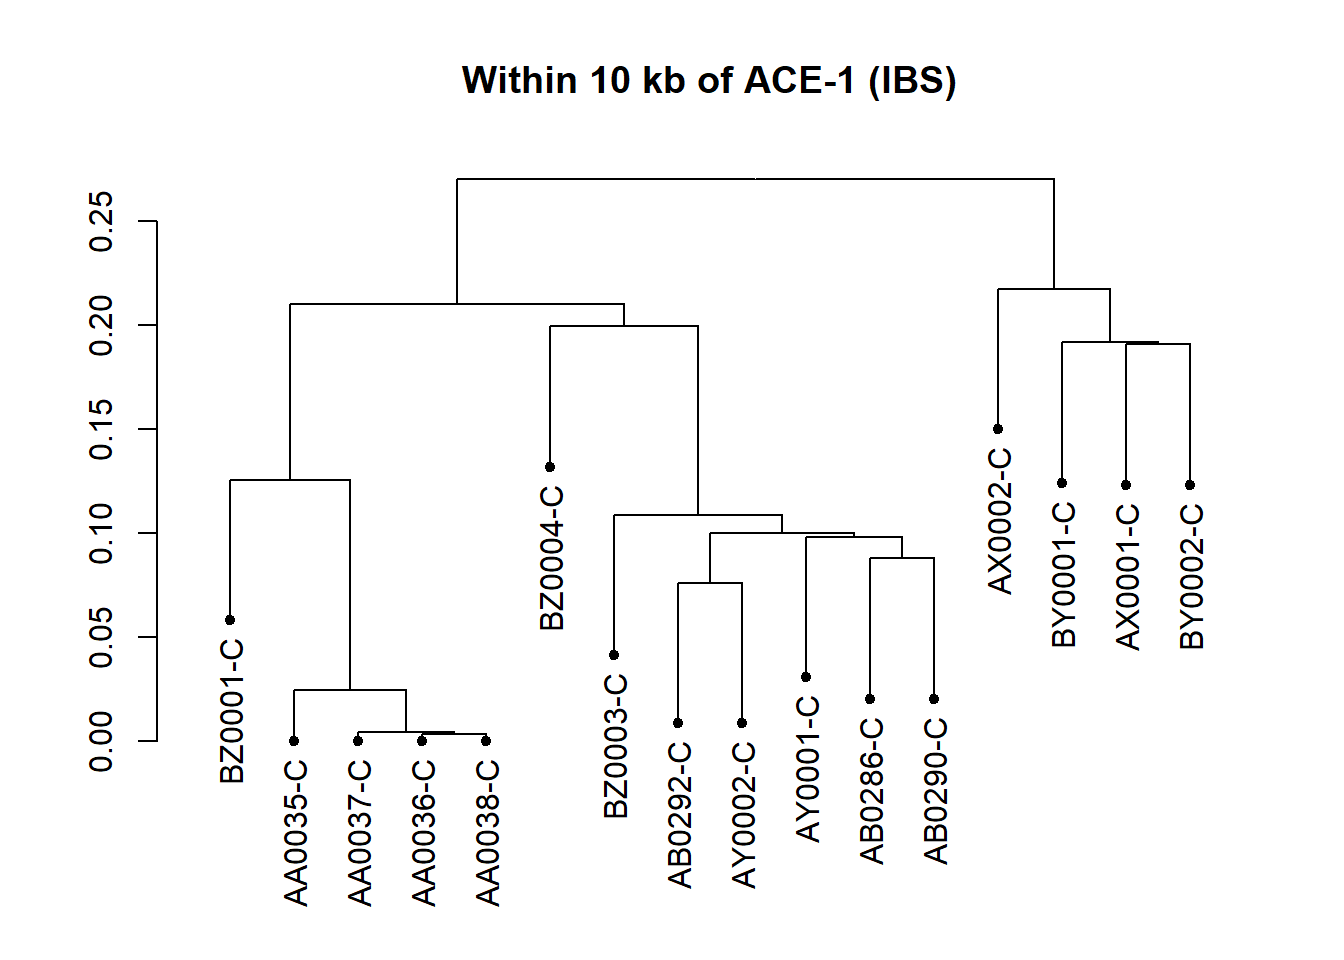
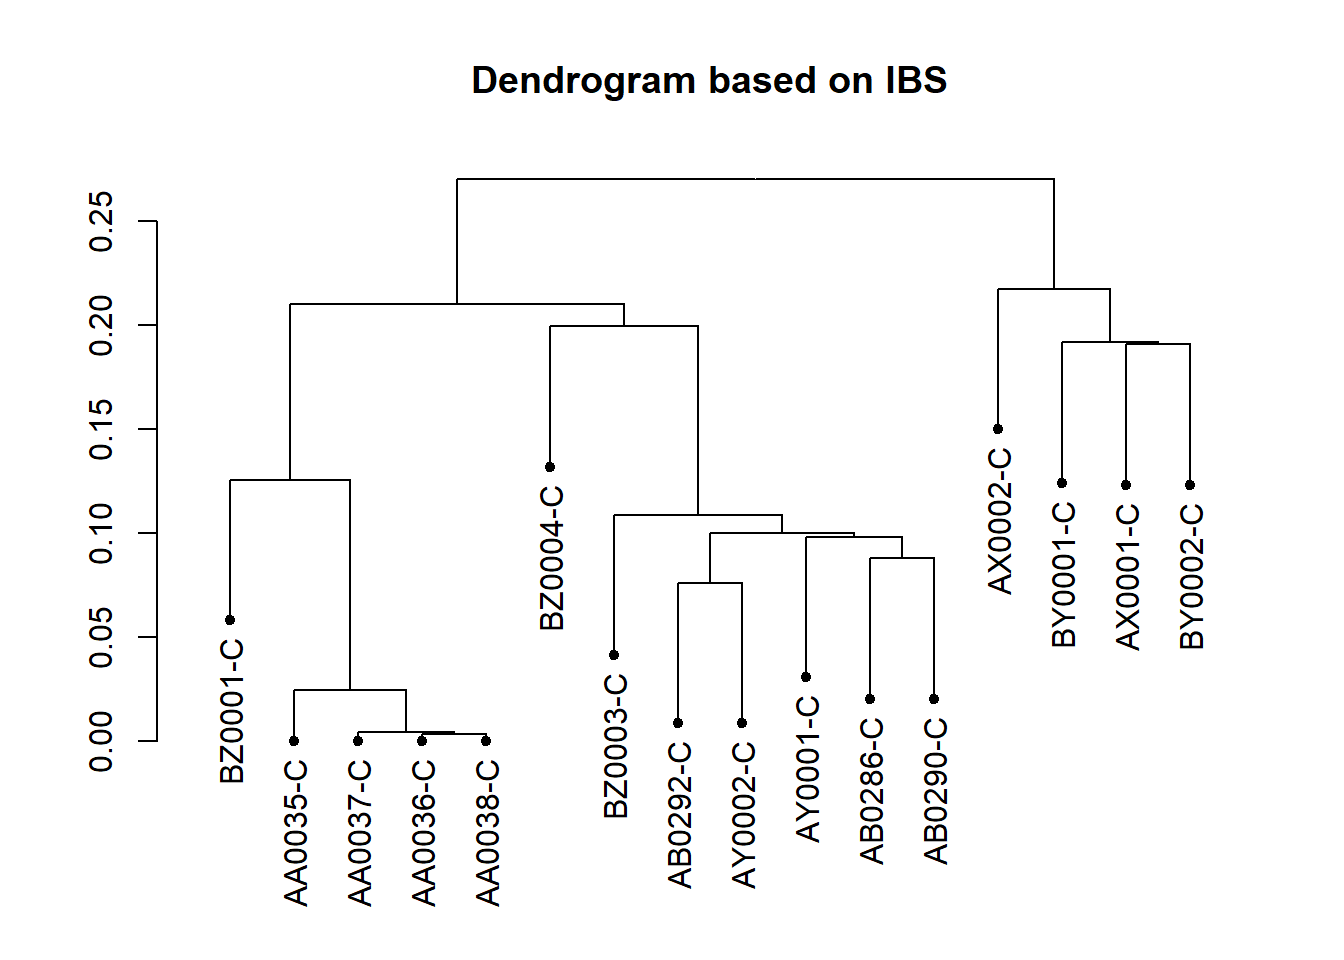
AddedThanks

Changed region(s): [[0.3438, 0.0625, 0.7188, 0.125]]

diff --git a/Phylogeny.html b/Phylogeny.html
@@ -396,6 +396,7 @@ div.tocify {
 <p>This document provides an example of creating a dendrogram from a VCF file. The VCF file can be altered using VCFtools to look at a specific area of the genome. The lines starting with ## are what you would expect to see for the output</p>
 <p>For a more in depth tutorial of SNPRelate see <a href="http://corearray.sourceforge.net/tutorials/SNPRelate/" class="uri">http://corearray.sourceforge.net/tutorials/SNPRelate/</a></p>
 <p>This document was created using Rmarkdown <a href="http://rmarkdown.rstudio.com" class="uri">http://rmarkdown.rstudio.com</a>.</p>
+<p>**Thanks to Thomas Quiroz Monnens for catching an error in a previous version of this tutorial!</p>
 <p>```</p>
 </div>
 <div id="installing-packages" class="section level1">
@@ -451,11 +452,11 @@ ibs.hc&lt;-snpgdsHCluster(snpgdsIBS(genofile,num.thread=2, autosome.only=FALSE))
 ##     # of SNPs: 2,102
 ##     using 2 threads
 ## IBS:    the sum of all selected genotypes (0,1,2) = 48494
-## Thu Aug 06 14:29:23 2020    (internal increment: 65536)
+## Fri Aug 07 18:26:24 2020    (internal increment: 65536)
 ## 
 [..................................................]  0%, ETC: ---        
 [==================================================] 100%, completed, 0s
-## Thu Aug 06 14:29:23 2020    Done.</code></pre>
+## Fri Aug 07 18:26:24 2020    Done.</code></pre>
 </div>
 <div id="turn-the-clustering-into-a-tree-file-and-plotting-tree" class="section level1">
 <h1>Turn the clustering into a tree file and plotting tree</h1>
@@ -463,7 +464,7 @@ ibs.hc&lt;-snpgdsHCluster(snpgdsIBS(genofile,num.thread=2, autosome.only=FALSE))
 <pre class="r"><code>rv &lt;- snpgdsCutTree(ibs.hc)</code></pre>
 <pre><code>## Determine groups by permutation (Z threshold: 15, outlier threshold: 5):
 ## Create 1 groups.</code></pre>
-<pre class="r"><code>plot(rv$dendrogram,main=&quot;Within 10 kb of ACE-1 (IBS)&quot;)</code></pre>
+<pre class="r"><code>plot(rv$dendrogram,main=&quot;Dendrogram based on IBS&quot;)</code></pre>
 <p><img src="Phylogeny_files/figure-html/unnamed-chunk-3-1.png" width="672" /></p>
 </div>
 <div id="dissimilarity-matrices" class="section level1">
@@ -478,8 +479,8 @@ ibs.hc&lt;-snpgdsHCluster(snpgdsIBS(genofile,num.thread=2, autosome.only=FALSE))
 ##     # of SNPs: 2,102
 ##     using 2 threads
 ## Dissimilarity:    the sum of all selected genotypes (0,1,2) = 48494
-## Dissimilarity:   Thu Aug 06 14:29:23 2020    0%
-## Dissimilarity:   Thu Aug 06 14:29:23 2020    100%</code></pre>
+## Dissimilarity:   Fri Aug 07 18:26:24 2020    0%
+## Dissimilarity:   Fri Aug 07 18:26:24 2020    100%</code></pre>
 </div>
 <div id="clustering-analysis" class="section level1">
 <h1>Clustering Analysis</h1>
@@ -542,7 +543,7 @@ cutTree = snpgdsCutTree(snpHCluster, z.threshold=15, outlier.n=5, n.perm = 5000,
 </div>
 <div id="displaying-a-tree-based-on-dissimilarity" class="section level1">
 <h1>Displaying a tree based on dissimilarity</h1>
-<pre class="r"><code>snpgdsDrawTree(cutTree, main = &quot;Within 10 kb of ACE-1 (Diss)&quot;,edgePar=list(col=rgb(0.5,0.5,0.5,0.75),t.col=&quot;black&quot;),
+<pre class="r"><code>snpgdsDrawTree(cutTree, main = &quot;Dendrogram based on dissimilarity&quot;,edgePar=list(col=rgb(0.5,0.5,0.5,0.75),t.col=&quot;black&quot;),
                y.label.kinship=T,leaflab=&quot;perpendicular&quot;,yaxis.kinship=F)</code></pre>
 <p><img src="Phylogeny_files/figure-html/unnamed-chunk-6-1.png" width="672" /></p>
 </div>
